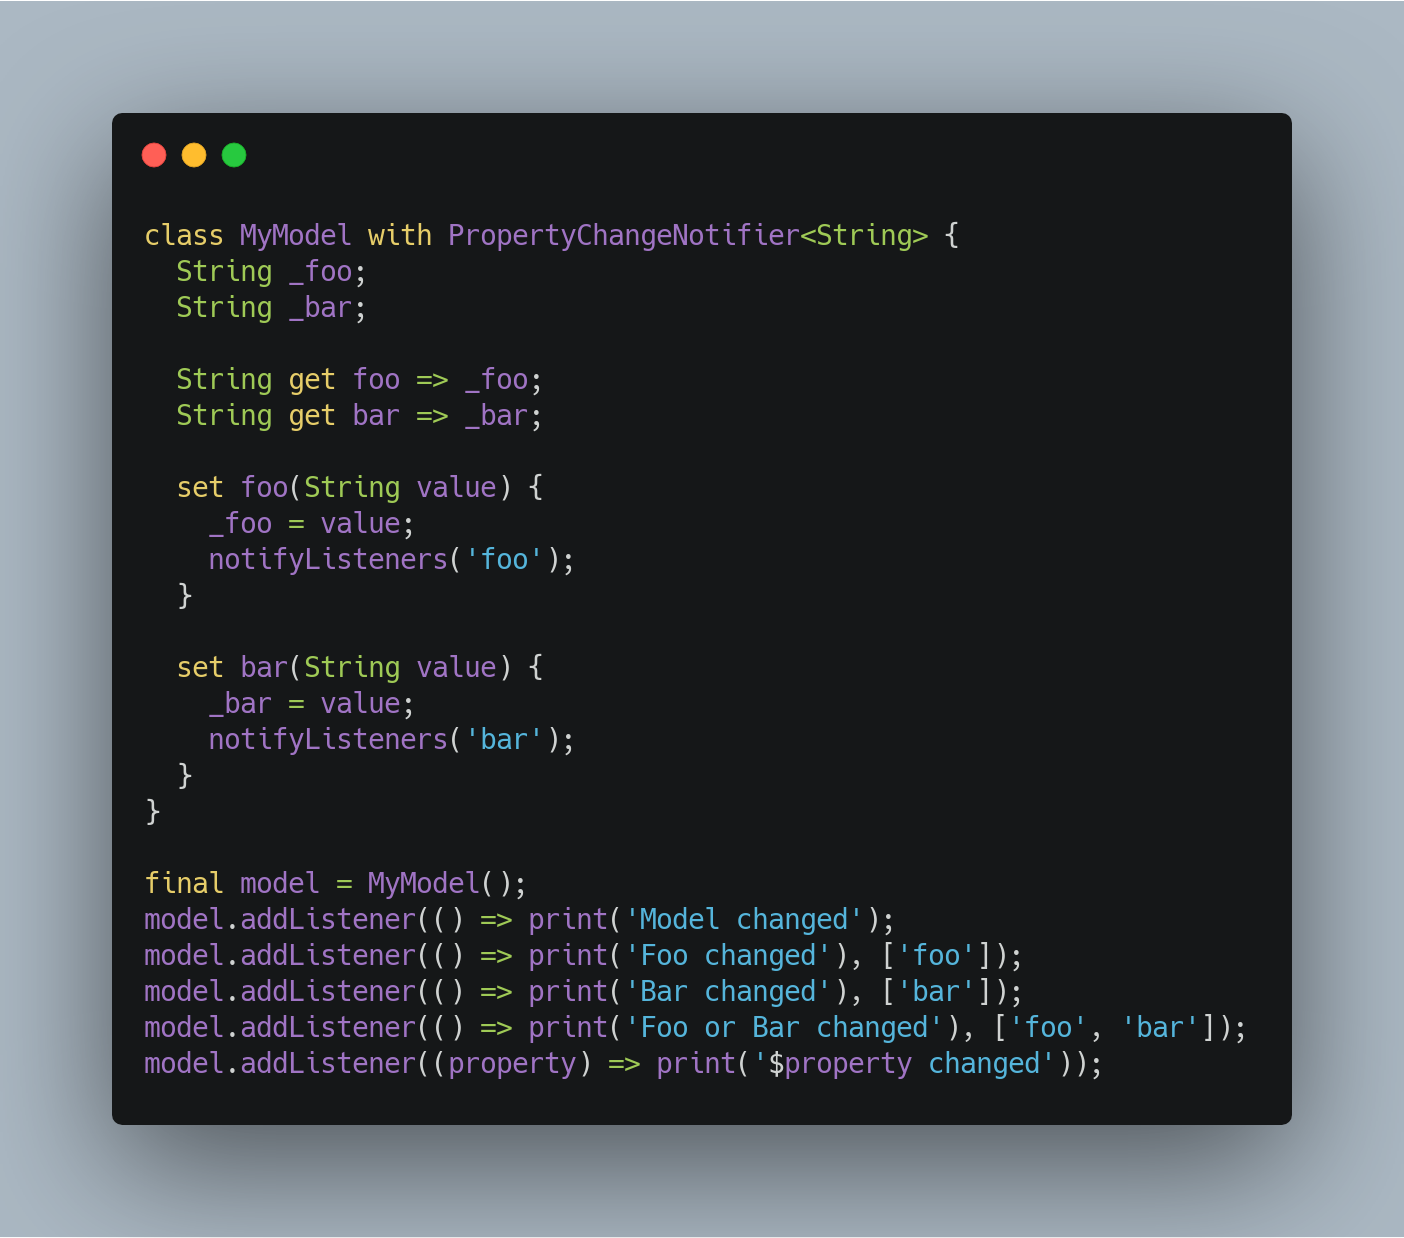
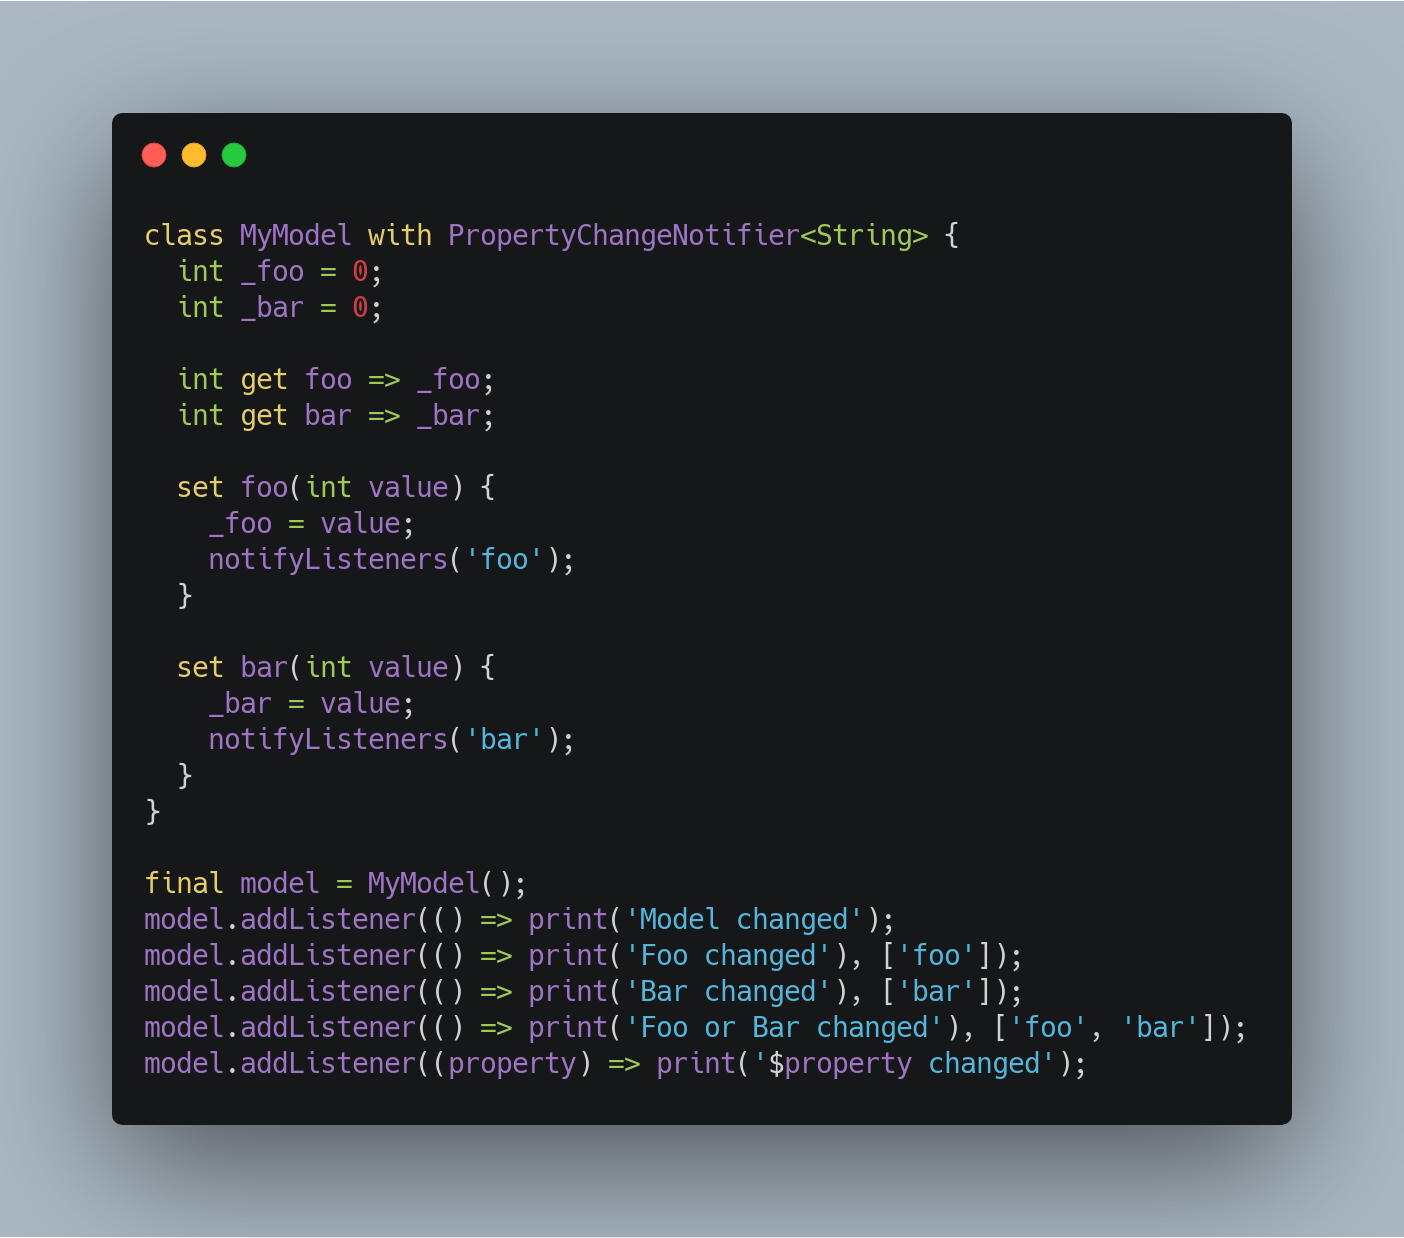
Updated readme and screenshot to use model with ints

Changed region(s): [[0.1225, 0.2149, 0.3981, 0.399], [0.2144, 0.5218, 0.3675, 0.5525]]

diff --git a/README.md b/README.md
@@ -24,18 +24,18 @@ A drop-in replacement for [ChangeNotifier](https://api.flutter.dev/flutter/found
 
 ```
 class MyModel with PropertyChangeNotifier<String> {
-  String _foo;
-  String _bar;
+  int _foo = 0;
+  int _bar = 0;
 
-  String get foo => _foo;
-  String get bar => _bar;
+  int get foo => _foo;
+  int get bar => _bar;
 
-  set foo(String value) {
+  set foo(int value) {
     _foo = value;
     notifyListeners('foo');
   }
 
-  set bar(String value) {
+  set bar(int value) {
     _bar = value;
     notifyListeners('bar');
   }
@@ -128,7 +128,7 @@ abstract class MyModelProperties {
 
 // Model
 class MyModel with PropertyChangeNotifier<String> {
-  set foo(String value) {
+  set foo(int value) {
     _foo = value;
     notifyListeners(MyModelProperties.foo);
   }
@@ -153,7 +153,7 @@ enum MyModelProperties {
 
 // Model
 class MyModel with PropertyChangeNotifier<MyModelProperties> {
-  set foo(String value) {
+  set foo(int value) {
     _foo = value;
     notifyListeners(MyModelProperties.foo);
   }
